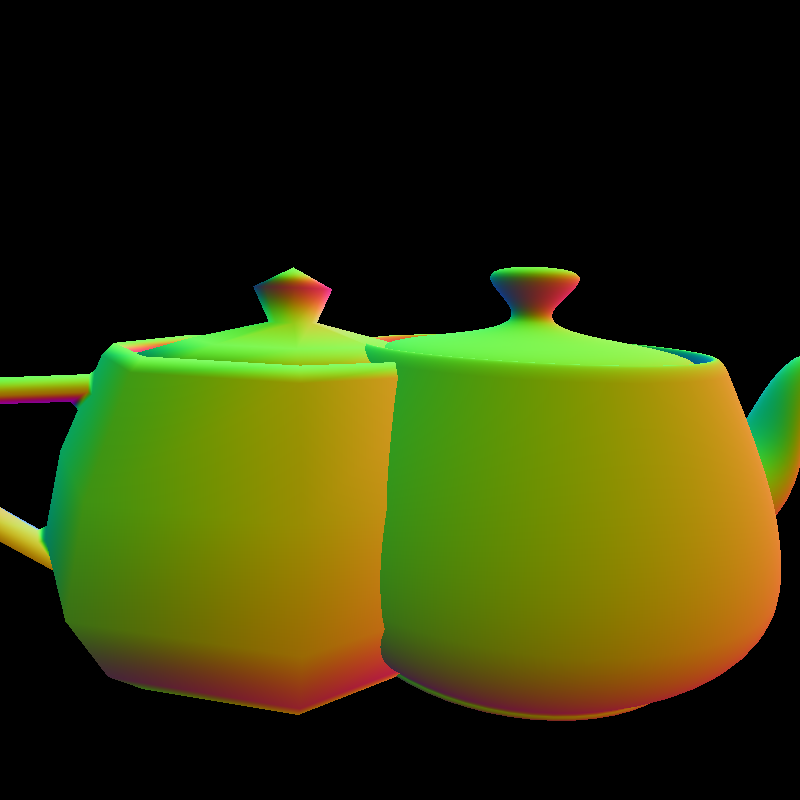
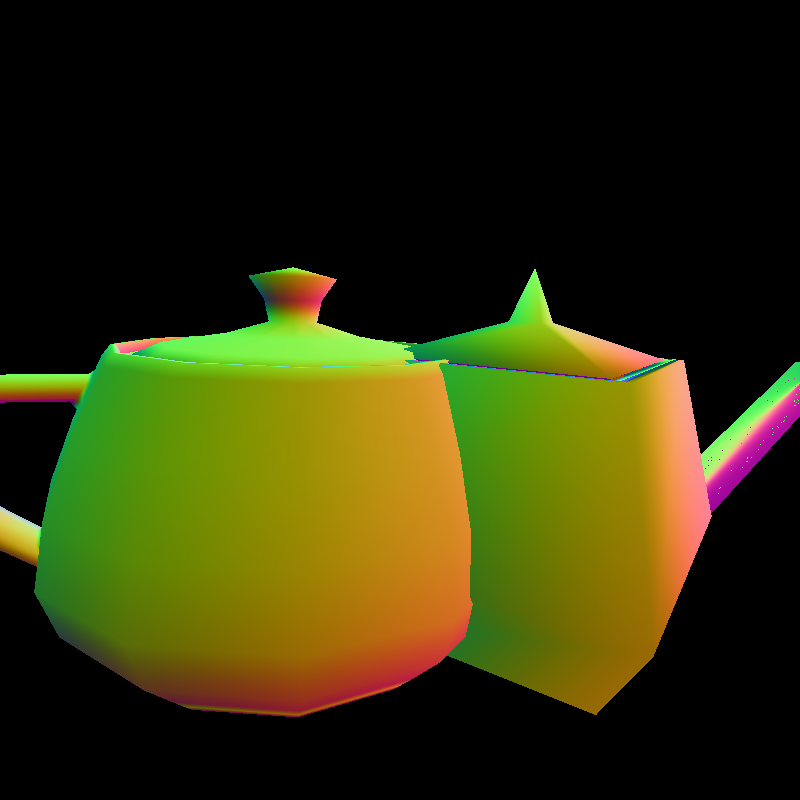
Parallelisation for the geometry rendering

Changed region(s): [[0.0, 0.3125, 1.0, 0.9062], [0.3125, 0.3125, 0.4375, 0.4062], [0.0, 0.4688, 0.0312, 0.5]]

diff --git a/renderer.py b/renderer.py
@@ -1,5 +1,6 @@
 from math import floor, ceil
-from multiprocessing import Pool, get_context
+import concurrent.futures as cf
+import os
 import numpy as np
 from time import time
 from objects import *
@@ -55,13 +56,22 @@ def interp(i0: float, d0: float, i1: float, d1: float) -> list:
         d = d + a
     return values
 
+def clamp_bounding_box(BB: np.array, width: int, height: int):
+    x_min = np.clip((BB[0]), 0, width - 1)
+    x_max = np.clip((BB[1]), 0, width - 1)
+    y_min = np.clip((BB[2]), 0, height - 1)
+    y_max = np.clip((BB[3]), 0, height - 1)
+    return np.array([x_min, y_min, x_max, y_max])
 
 #——————————[ RASTERISATION ]—————————————————————————————————————————————————————————————————————————————————————————————
 
 
-def draw_triangle(triangle: Triangle, data_buffer: np.ndarray, view_dist: float, mat_id: int) -> None:
+def draw_triangle(triangle: Triangle, data_buffer: np.ndarray, mat_id: int, tile_x=0, tile_y=0, tile_size=None) -> None:
 
     width, height, _ = data_buffer.shape
+
+    if tile_size is None:
+        tile_size = max(width, height)
 
     x0, y0, z0 = triangle.P0
     x1, y1, z1 = triangle.P1
@@ -88,10 +98,12 @@ def draw_triangle(triangle: Triangle, data_buffer: np.ndarray, view_dist: float,
         smooth = False
 
     # Define the bounding box, clamped to the canva size
-    x_max = np.clip(ceil(max(x0, x1, x2)), 0, width-1)
-    x_min = np.clip(floor(min(x0, x1, x2)), 0, width-1)
-    y_max = np.clip(ceil(max(y0, y1, y2)), 0, height-1)
-    y_min = np.clip(floor(min(y0, y1, y2)), 0, height-1)
+    BB = triangle.get_bounding_box(width, height)
+    x_min, y_min, x_max, y_max = BB
+    x_min = np.clip(x_min, tile_x, tile_x + tile_size - 1)
+    x_max = np.clip(x_max, tile_x, tile_x + tile_size - 1)
+    y_min = np.clip(y_min, tile_y, tile_y + tile_size - 1)
+    y_max = np.clip(y_max, tile_y, tile_y + tile_size - 1)
 
     # Create a matrix of all the pixels in the bounding box
     xs = np.arange(x_min, x_max + 1)
@@ -103,7 +115,10 @@ def draw_triangle(triangle: Triangle, data_buffer: np.ndarray, view_dist: float,
     e2 = (x0 - px) * (y1 - py) - (x1 - px) * (y0 - py)
 
     # Check if each pixel is inside the triangle -> boolean mask of the pixels inside
-    inside = ((e0 >= 0) & (e1 >= 0) & (e2 >= 0)) | ((e0 <= 0) & (e1 <= 0) & (e2 <= 0))
+    if area > 0:  # front face
+        inside = (e0 >= 0) & (e1 >= 0) & (e2 >= 0)
+    else:  # back face (double-sided material)
+        inside = (e0 <= 0) & (e1 <= 0) & (e2 <= 0)
 
     # Barycentric weights
     w0 = e0 / area
@@ -261,7 +276,7 @@ def perspective_projection(triangle: Triangle, camera: 'Camera', width: int, hei
     P1 = project_vertex(triangle.P1)
     P2 = project_vertex(triangle.P2)
 
-    return Triangle(P0, P1, P2, triangle.colour, triangle.P0_uv, triangle.P1_uv, triangle.P2_uv, triangle.P0_n, triangle.P1_n, triangle.P2_n)
+    return Triangle(P0, P1, P2, triangle.colour, triangle.P0_uv, triangle.P1_uv, triangle.P2_uv, triangle.P0_n, triangle.P1_n, triangle.P2_n, triangle.mat_id)
 
 #——————————[ RENDER ]————————————————————————————————————————————————————————————————————————————————————————————————————
 
@@ -285,8 +300,16 @@ def render_wireframe_instance(instance: Instance, viewport: 'Viewport', image: n
             print(f"{i/t_len*100}")
             i += 1
 
+def render_tile(ty, tx, tile_triangles, data_buffer, TILE_SIZE):
+    if len(tile_triangles) == 0:
+        return
+    for triangle in tile_triangles:
+        mat_id = triangle.mat_id
+        draw_triangle(triangle, data_buffer, mat_id,
+                      tile_x=tx * TILE_SIZE, tile_y=ty * TILE_SIZE,
+                      tile_size=TILE_SIZE)
 
-def render_instance(instance: Instance, viewport: 'Viewport', data_buffer: np.ndarray, width: int, height: int, DEBUG=False) -> None:
+def process_instance(instance: Instance, viewport: 'Viewport', tiles, tile_size, data_buffer: np.ndarray, width: int, height: int) -> None:
     """
     Rasterise a single instance into the G-buffer.
 
@@ -304,46 +327,69 @@ def render_instance(instance: Instance, viewport: 'Viewport', data_buffer: np.nd
     :param height:     Output image height in pixels
     """
     draw_back_faces = (instance.mat.id >> 3) & 0x1  # read double-sided flag from material ID
-    if DEBUG:
-        t_len = len(instance.model.triangles)
-        i = 1
+
     for t in instance.apply_transform():
-        if viewport.camera.in_view(t, draw_back_faces):
-            projected = viewport.project_func(t, viewport.camera, width, height)
-            draw_triangle(projected, data_buffer, viewport.camera.view_dist, instance.mat.id)
-        if DEBUG:
-            print(f"{i/t_len*100}")
-            i += 1
+        if not viewport.camera.in_view(t, draw_back_faces):
+            continue
+
+        projected = viewport.project_func(t, viewport.camera, width, height)
+
+        # Get the BB of the triangle
+        BB = projected.get_bounding_box(width, height)
+        x_min, y_min, x_max, y_max = BB
+
+        if x_min >= x_max or y_min >= y_max:
+            continue
+
+        # Identifier les tuiles intersectées
+        tx_min = x_min // tile_size
+        tx_max = min(x_max // tile_size, len(tiles[0]) - 1)
+        ty_min = y_min // tile_size
+        ty_max = min(y_max // tile_size, len(tiles) - 1)
+
+        # Ajouter le triangle à chaque tuile intersectée
+        for ty in range(ty_min, ty_max + 1):
+            for tx in range(tx_min, tx_max + 1):
+                tiles[ty][tx].append(projected)
 
 
-def render(viewport, width, height, post_process=[], benchmark_data=None, DEBUG=False):
+def render(viewport, width, height, post_process=[], tile_size=32, benchmark_data=None):
     t_total = time()
 
     materials   = MaterialRegistry()
     image       = np.zeros((height, width, 3))
     data_buffer = np.zeros((height, width, 7))
-    i = 0
+
+    tiles = [[[] for _ in range(ceil(width / tile_size))]
+             for _ in range(ceil(height / tile_size))]
 
     # ── Pass 1 — Geometry ──────────────────────────────────────────────────
     t = time()
-    for instance in viewport.objects:
-        if type(instance) is ComplexInstance:
-            for inst_ in instance.instances:
-                materials.register(inst_.mat)
-                render_instance(inst_, viewport, data_buffer, width, height, DEBUG)
-                i += 1
-        else:
-            materials.register(instance.mat)
-            render_instance(instance, viewport, data_buffer, width, height, DEBUG)
-            i += 1
+    with cf.ThreadPoolExecutor(max_workers=os.cpu_count()) as executor:
+
+        for instance in viewport.objects:
+            if type(instance) is ComplexInstance:
+                for inst_ in instance.instances:
+                    materials.register(inst_.mat)
+                    # process the instance to separate the triangles into tiles for parallel rendering
+                    process_instance(inst_, viewport, tiles, tile_size, data_buffer, width, height)
+            else:
+                materials.register(instance.mat)
+                process_instance(instance, viewport, tiles, tile_size, data_buffer, width, height)
+
+            # Render each tile parallelly
+            for ty in range(len(tiles)):
+                for tx in range(len(tiles[ty])):
+                    executor.submit(render_tile, ty, tx, tiles[ty][tx], data_buffer, tile_size)
+
     if benchmark_data is not None:
         benchmark_data["time_pass1"] = round(time() - t, 4)
 
     # ── Pass 2 — Shading ───────────────────────────────────────────────────
     t = time()
     pixels_shaded = 0
-    for x in range(len(data_buffer)):
-        for y in range(len(data_buffer[0])):
+    for x in range(height):
+        for y in range(width):
             material_data = int(data_buffer[x, y, 6])
             if material_data != 0:
                 pixels_shaded += 1
@@ -358,8 +404,8 @@ def render(viewport, width, height, post_process=[], benchmark_data=None, DEBUG=
     # ── Pass 3 — Post-process + gamma ──────────────────────────────────────
     t = time()
     if post_process:
-        for x in range(len(data_buffer)):
-            for y in range(len(data_buffer[0])):
+        for x in range(height):
+            for y in range(width):
                 for pp in post_process:
                     draw_pixel(pp, image, data_buffer, x, y, viewport.camera)
     image = image ** (1 / viewport.camera.gamma)
@@ -370,8 +416,6 @@ def render(viewport, width, height, post_process=[], benchmark_data=None, DEBUG=
         benchmark_data["time_total"] = round(time() - t_total, 4)
 
     return image, data_buffer
-
-# TODO: Camera rotation
 
 
 def render_wireframe(viewport: 'Viewport', width: int, height: int, DEBUG:bool=False) -> np.ndarray:

diff --git a/objects.py b/objects.py
@@ -1,4 +1,5 @@
 import numpy as np
+from math import ceil, floor
 from materials import *
 
 #——————————[ UTILITIES ]————————————————————————————————————————————————————————————————————————————————————————————————
@@ -166,7 +167,8 @@ class Triangle:
                  P2_uv: list = [1, 1],
                  P0_n: list = None,
                  P1_n: list = None,
-                 P2_n: list = None) -> None:
+                 P2_n: list = None,
+                 mat_id: int = None) -> None:
         # Vertices
         self.P0 = P0
         self.P1 = P1
@@ -184,7 +186,10 @@ class Triangle:
         self.V1 = P2 - P1
         self.V2 = P0 - P2
 
+        self.BB = None
+
         self.colour = colour
+        self.mat_id = mat_id
 
     def lines(self) -> tuple:
         """
@@ -206,6 +211,23 @@ class Triangle:
         A = self.P1 - self.P0
         B = self.P2 - self.P0
         return normalize(np.cross(A, B))
+
+    def get_bounding_box(self, width: int, height: int):
+
+        if self.BB is None:
+            x0, y0, z0 = self.P0
+            x1, y1, z1 = self.P1
+            x2, y2, z2 = self.P2
+
+            # Define the bounding box, clamped to the canva size
+            x_max = np.clip(ceil(max(x0, x1, x2)), 0, width-1)
+            x_min = np.clip(floor(min(x0, x1, x2)), 0, width-1)
+            y_max = np.clip(ceil(max(y0, y1, y2)), 0, height-1)
+            y_min = np.clip(floor(min(y0, y1, y2)), 0, height-1)
+
+            self.BB = np.array([x_min, y_min, x_max, y_max])
+
+        return self.BB
 
 #——————————[ MODEL ]————————————————————————————————————————————————————————————————————————————————————————————————————
 
@@ -347,6 +369,11 @@ class Instance:
         self.model     = model
         self.transform = transform
         self.mat       = material
+        self.apply_material()
+
+    def apply_material(self):
+        for t in self.model.triangles:
+            t.mat_id = self.mat.id
 
     def apply_transform(self) -> list:
         """
@@ -391,7 +418,8 @@ class Instance:
             P0, P1, P2,
             t.colour,
             t.P0_uv, t.P1_uv, t.P2_uv,
-            P0_n, P1_n, P2_n
+            P0_n, P1_n, P2_n,
+            self.mat.id
         )
 
     def rotate(self, t: Triangle) -> Triangle:
@@ -445,7 +473,8 @@ class Instance:
             P0, P1, P2,
             t.colour,
             t.P0_uv, t.P1_uv, t.P2_uv,
-            P0_n, P1_n, P2_n
+            P0_n, P1_n, P2_n,
+            self.mat.id
         )
 
     def translate(self, t: Triangle) -> Triangle:
@@ -458,7 +487,7 @@ class Instance:
         P0 = t.P0 + self.transform.pos
         P1 = t.P1 + self.transform.pos
         P2 = t.P2 + self.transform.pos
-        return Triangle(P0, P1, P2, t.colour, t.P0_uv, t.P1_uv, t.P2_uv, t.P0_n, t.P1_n, t.P2_n)
+        return Triangle(P0, P1, P2, t.colour, t.P0_uv, t.P1_uv, t.P2_uv, t.P0_n, t.P1_n, t.P2_n, self.mat.id)
 
 
 class ComplexInstance(Instance):

diff --git a/main.py b/main.py
@@ -7,8 +7,8 @@ from lights import *
 
 grid_atlas = Atlas(pyplot.imread("grid.png"))
 crate_atlas = Atlas(pyplot.imread("crate.png"))
-utah_teapot2 = load_obj('models/utah_teapot_reso2.obj', smooth_shading=True)
-utah_teapot = load_obj('models/utah_teapot.obj', smooth_shading=True)
+utah_teapot2 = load_obj('models/utah_teapot_reso3.obj', smooth_shading=True)
+utah_teapot = load_obj('models/utah_teapot_reso1.obj', smooth_shading=True)
 #pilier = load_obj('models/tourniquet_pilier.obj', smooth_shading=True)
 
 #——————————[ SCENE SETUP ]———————————————————————————————————————————————————————————————————————————————————————————————
@@ -42,7 +42,7 @@ def inst(model, shader, pos=(0, -2, 5.5), rot=(-100, -12, 0), scale=(1, 1, 1)):
 
 # Scene objects
 objects = [
-            inst(utah_teapot,  grid_shader, pos=( 1, -2, 5.5)),
+            inst(utah_teapot,  grid_shader, pos=(1, -2, 5.5)),
             inst(utah_teapot2, grid_shader, pos=(-1, -2, 5.5)),
         ]
 
@@ -61,7 +61,7 @@ pyplot.imsave("img/image_wireframe.png", render_wireframe(viewport, 4000, 4000))
 print(f"Done — saved wireframe.png in {time() - t:.3f} seconds")
 
 print("Rendering image:")
-r, d_b = render(viewport, 800, 800, post_process=post_process)
+r, d_b = render(viewport, 800, 800, post_process=post_process, tile_size=32)
 
 # Build a UV visualisation image from G-buffer channels 4 and 5
 uv = np.zeros((len(d_b), len(d_b[0]), 3))
